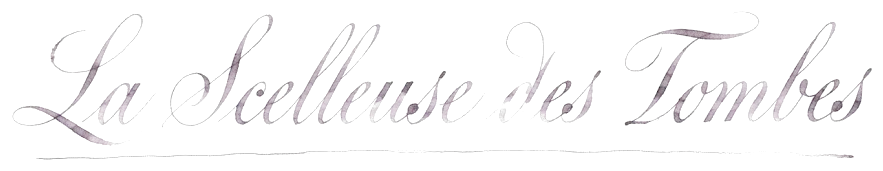
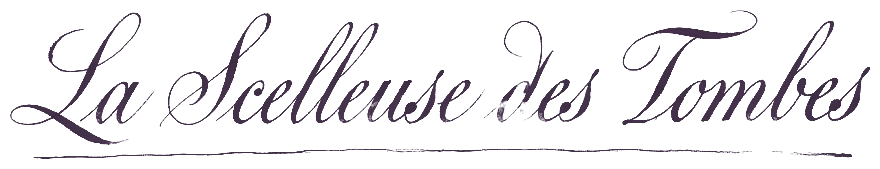
v791 : signature des Tombes plus lisible dans les 6 langues
Claude-Session: https://claude.ai/code/session_01G3jW2e2fkjyWdrMoKXNbtm

diff --git a/sw.js b/sw.js
@@ -1,7 +1,7 @@
 // Service worker d'ABYSSAL : l'application et les données sont mises en cache
 // pour fonctionner hors ligne après une première visite. Incrémenter VERSION à
 // chaque publication pour que les joueurs reçoivent la mise à jour.
-const VERSION = 'abyssal-v790';
+const VERSION = 'abyssal-v791';
 const ART_CACHE = 'abyssal-media';  // images du jeu : gardées entre les versions
 const FONT_CACHE = 'abyssal-fonts';
 const CORE = [

diff --git a/js/config.js b/js/config.js
@@ -1,7 +1,7 @@
 // Configuration centrale du jeu : raretés, tables de tirage, boosters,
 // économie, variantes, progression. Toute la balance se règle ici.
 
-export const VERSION = 'v790'; // même numéro que sw.js : affiché dans Réglages > À propos
+export const VERSION = 'v791'; // même numéro que sw.js : affiché dans Réglages > À propos
 
 export const RARITIES = [
   { key: 'C',  name: 'Commune',     short: 'C',  color: '#A3ADBD' },

diff --git a/tools/sig-art.py b/tools/sig-art.py
@@ -11,7 +11,8 @@ from PIL import Image
 key, lang = sys.argv[1], sys.argv[2]
 gain = float(sys.argv[3]) if len(sys.argv) > 3 else 1.5
 dark_mul = float(sys.argv[4]) if len(sys.argv) > 4 else 1.0  # assombrit l'encre (ex. 0.7)
-src = Image.open(f'store/fin/sig-{key}-{lang}-source.jpg').convert('RGB')
+suf = '' if lang == 'fr' else f'-{lang}'  # fr : la signature d'origine (sig-<clé>.webp)
+src = Image.open(f'store/fin/sig-{key}{suf}-source.jpg').convert('RGB')
 a = np.asarray(src).astype(np.float32) / 255.0
 
 # fond : blanc presque pur ; seuil doux pour ne pas garder le grain du papier
@@ -70,6 +71,6 @@ m = 10
 img = img.crop((max(0, bb[0] - m), max(0, bb[1] - m), min(img.width, bb[2] + m), min(img.height, bb[3] + m)))
 if img.width > 900:
     img = img.resize((900, round(img.height * 900 / img.width)), Image.LANCZOS)
-dst = f'assets/fin/sig-{key}-{lang}.webp'
+dst = f'assets/fin/sig-{key}{suf}.webp'
 img.save(dst, 'WEBP', quality=88, method=6)
 print(dst, img.size)

diff --git a/CLAUDE.md b/CLAUDE.md
@@ -33,7 +33,7 @@ Ce texte reprend tout ce qu'il faut savoir du projet. Ce fichier est lu automati
 - SQL : `supabase/12-serveur-de-partie.sql` (table `parties`, fonctions `partie_*` réservées à `service_role`), puis **`supabase/13-verrouillage.sql` seulement quand À propos dit « Progression gardée par le serveur »** (plus d'écriture directe des sauvegardes, profils, fiches d'ami et Épreuves ; le joueur garde le choix de son pseudo).
 
 ## 2. Routine de livraison
-1. Version : **ligne 4** de `js/config.js` **et** de `sw.js`, toujours le même numéro (`sed -i "4s/vX/vY/" js/config.js sw.js`). Actuellement **v790**.
+1. Version : **ligne 4** de `js/config.js` **et** de `sw.js`, toujours le même numéro (`sed -i "4s/vX/vY/" js/config.js sw.js`). Actuellement **v791**.
 2. Tests : `node --test tests/*.test.mjs` (388 tests, dont `tests/syntaxe.test.mjs` qui passe `node --check` sur chaque fichier de `js/` : les écrans ne sont importés par aucun autre test), `node tools/validate.mjs`. Si le combat ou l'équilibre change : `node tools/fuzz.mjs 300` (étage moyen ≈ 12 à 14 en normal).
 3. Vérification dans le navigateur avec Playwright (`/opt/node-tools/node_modules/playwright/index.mjs`, Chromium déjà installé), avec un serveur local `python3 -m http.server 8092` lancé dans le dossier. Tailles iPhone SE et iPhone 13. **L'écran d'ouverture attend un toucher** (« Touche l'écran pour entrer ») : dans les scripts, cliquer au milieu de l'écran (dans la fenêtre 390×664) avant tout le reste.
 4. Commit, push, réponse en français.
@@ -114,6 +114,7 @@ Ce texte reprend tout ce qu'il faut savoir du projet. Ce fichier est lu automati
 - Amis par pseudo : **fait en v500**. Versus Booster (mini-jeu à mise contre d'autres joueurs) : **fait en v513**, devenu sans mise en v735 (« Le Choc des Boosters », refus d'Apple). Duels des Sceaux en ligne : **fait en v519** ; Pacte en ligne : **fait en v523** ; Enchères en ligne et Cryptes entre amis : **faits en v525**. Ensuite : versus 1 contre 1 (Sceaux et combats façon Descente). Le propriétaire veut que le perdant **perde vraiment** une carte. Cadre conseillé si on le fait : mode « Duel à enjeu » séparé et consenti (duel normal sans perte à côté), mise de même rareté des deux côtés, favoris jamais mis en jeu, adversaires de niveau proche, accès après quelques jours et duels normaux (contre les comptes jetables et le trafic de cartes), uniquement entre joueurs présents ou amis ayant accepté (jamais sur une partie jouée par l'IA à la place d'un absent).
 
 ## 5. Décisions déjà prises
+- v791 (le propriétaire : « la couleur du Scelleur des Tombes est trop fade, on ne la voit pas bien ») : signature des Tombes refaite dans les 6 langues, française comprise (`python3 tools/sig-art.py tombes <fr|en|es|de|it|pt> 10 1 '#3a2a40'` : encre violet-gris plus foncée et plus opaque) ; `tools/sig-art.py` accepte la langue `fr` (source `store/fin/sig-<clé>-source.jpg` → `assets/fin/sig-<clé>.webp`). Vérifié dans Chromium (vélin en français, anglais, portugais) ; rien testé sur un vrai iPhone.
 - v790 (6 images Gemini des prompts 25 à 30) : **signatures du vélin en portugais** : les 6 langues ont maintenant leurs signatures (`SIG_LANGS` = en, es, de, it, pt). Braise retouchée : la flamme posée sur le « A » de « A Seladora » se lisait comme un accent (« À ») : effacée dans la source (original `store/fin/sig-braise-pt-original.jpg`). Vérifié dans Chromium (scène du vélin en portugais) ; rien testé sur un vrai iPhone.
 - v789 (12 images Gemini des prompts 13 à 24) : **signatures du vélin en allemand et en italien** (`SIG_LANGS` = en, es, de, it ; mêmes réglages de `tools/sig-art.py` qu’en v788). Reste le portugais (prompts 25 à 30). Vérifié dans Chromium (scène du vélin en allemand et en italien) ; rien testé sur un vrai iPhone.
 - v788 (12 images Gemini des prompts v787 : anglais et espagnol) : **signatures du vélin en anglais et en espagnol** (`SIG_LANGS` = en, es dans `js/screens/ending.js`). Nouvel outil **`python3 tools/sig-art.py <clé> <langue> [gain] [assombrir]`** (source `store/fin/sig-<clé>-<langue>-source.jpg` → `assets/fin/sig-<clé>-<langue>.webp` : blanc rendu transparent, couleur dé-mélangée, poussières effacées, petite marque isolée devant le premier mot effacée : Gemini avait posé une apostrophe devant « The » et « El » des Montagnes). Réglages utilisés (pour ressembler aux signatures françaises sur le vélin) : gain 1,5 par défaut ; Braise assombrir 0,62 ; Cieux `3.5 1 '#ad8840'` et Tombes `6 1 '#5a4b58'` (teinte imposée = couleur moyenne de la version française : l’or et le gris de Gemini disparaissaient sur le vélin). Restent l’allemand, l’italien et le portugais (prompts 13 à 30). Vérifié dans Chromium (scène du vélin en anglais, espagnol et allemand, qui garde le français) ; rien testé sur un vrai iPhone.
